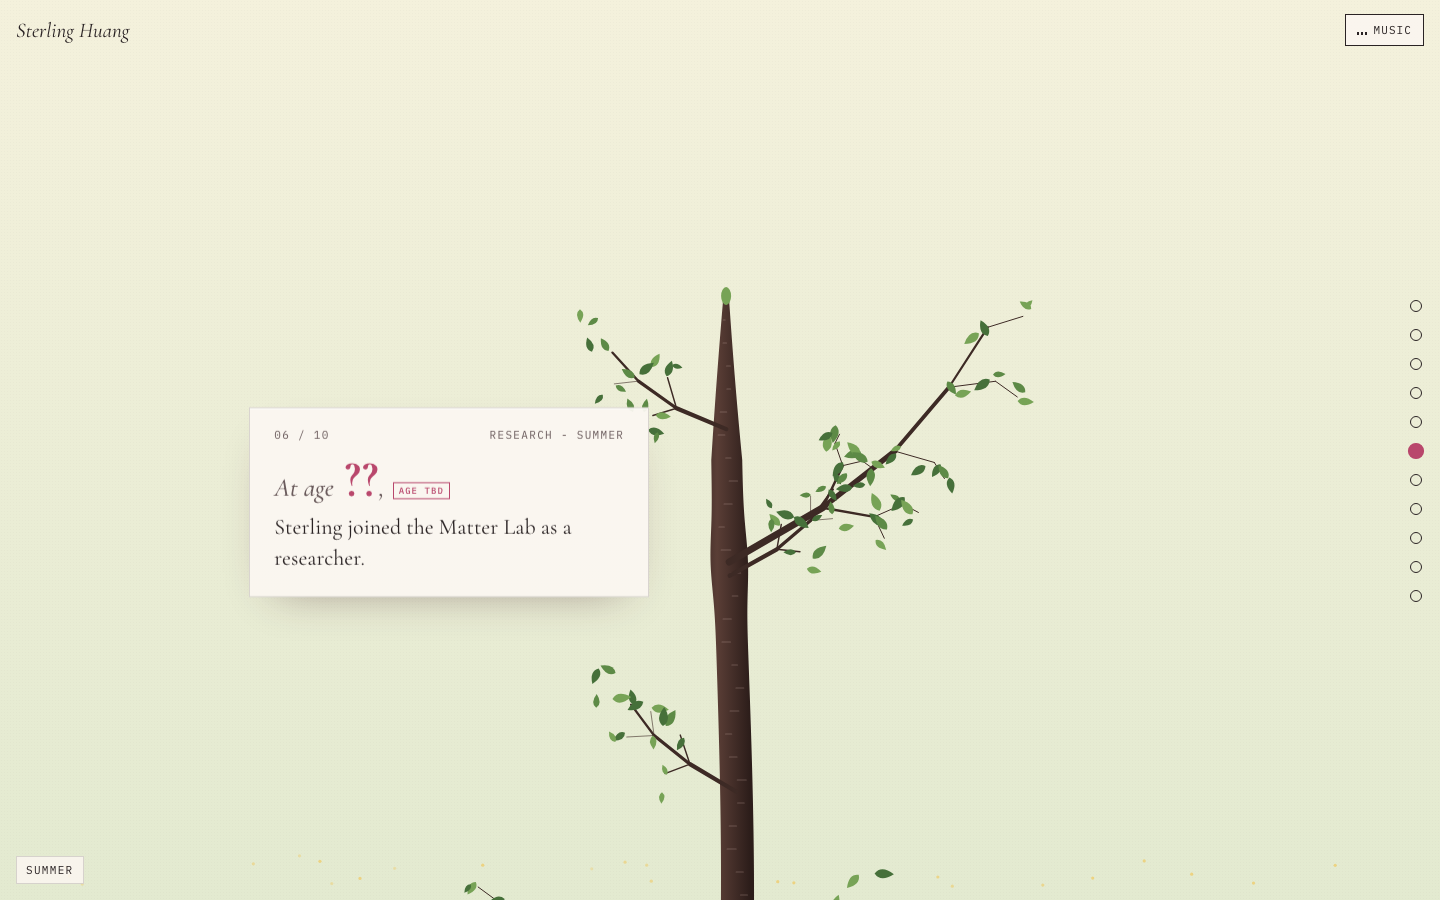
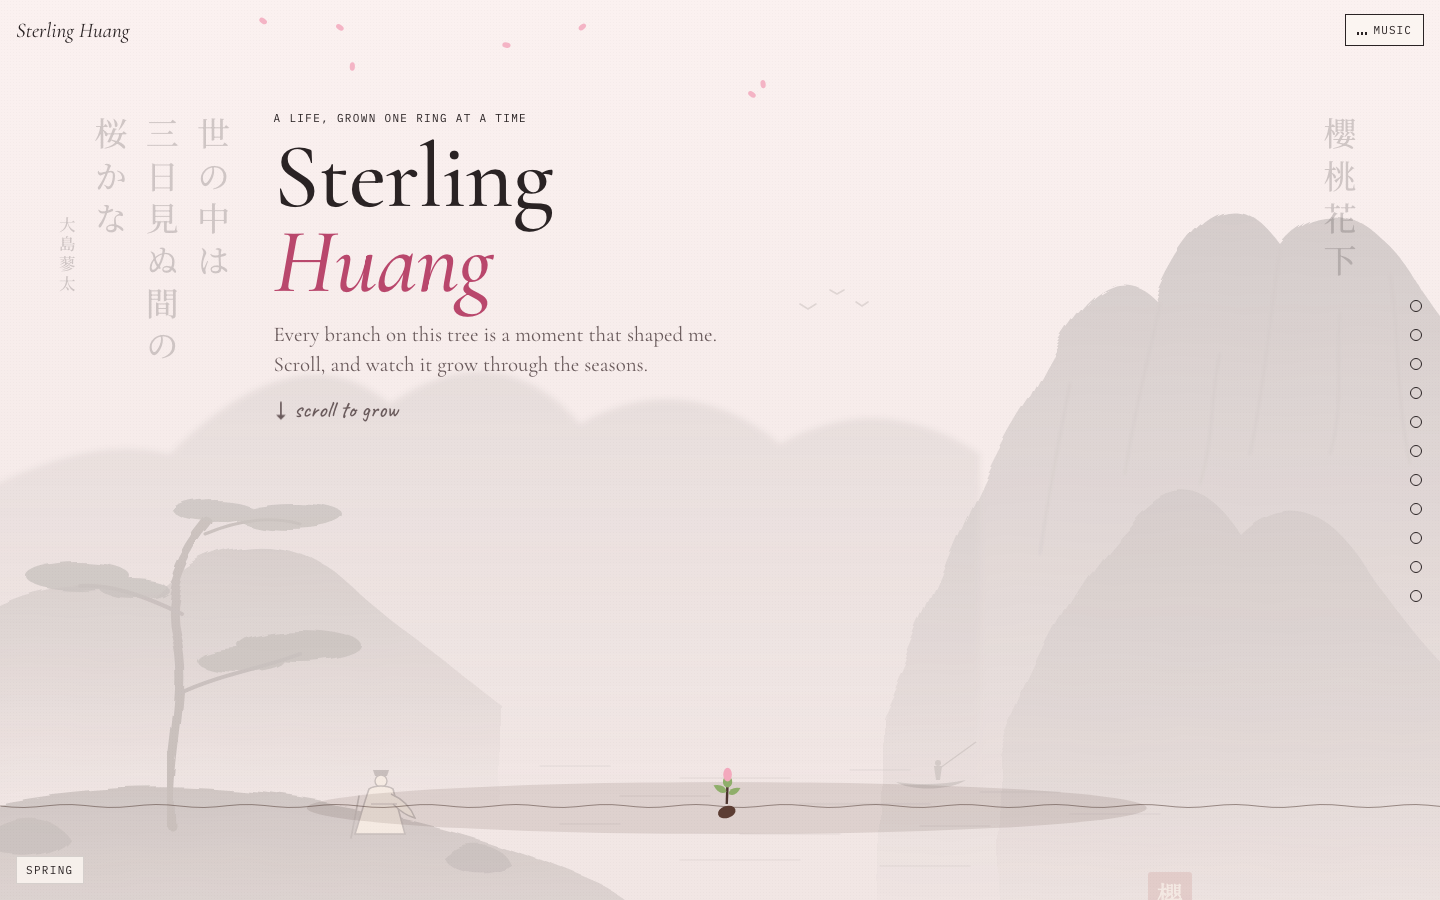
feat: bud-to-bloom growth, single season cycle and ink-wash backdrop
- tree starts as a sprouting bud and thickens as it grows; branches mature with each highlight
- seasons run once in long blocks (spring buds, summer, autumn, winter) before full bloom
- faded original shanshui landscape with a scholar on the riverbank, parallax on scroll
- vertical verses: Oshima Ryota's haiku and the title of the 櫻桃花下 poem (text pending)

diff --git a/js/tree.js b/js/tree.js
@@ -6,7 +6,9 @@
 (() => {
   const reduceMotion = matchMedia("(prefers-reduced-motion: reduce)").matches;
   const MOBILE_BP = 760;
-  const GROUND = 96, SEED_H = 760, STEP = 600, CROWN_GAP = 320;
+  const GROUND = 96, SEED_H = 760, STEP = 700, CROWN_GAP = 320;
+  /* The tree matures as it grows: branches and trunk start at these fractions of full size. */
+  const YOUNG_BRANCH = 0.5, YOUNG_TWIG = 0.3, YOUNG_TRUNK = 0.3;
   const SEASON_FADE_MS = 1400, CANOPY_COUNT = 760, GROWTH_RATE = 3.2;
   /* At the end of the page the crown sits at CROWN_SCREEN of the viewport height and the motto at FINALE_SCREEN. */
   const CROWN_SCREEN = 0.8, FINALE_SCREEN = 0.42;
@@ -20,8 +22,10 @@
 
   /* ---------- world layout ---------- */
   const marks = SITE.highlights.map((h, i) => ({
-    ...h, i, wy: SEED_H + i * STEP, side: i % 2 ? -1 : 1, season: SEASON_CYCLE[i % SEASON_CYCLE.length]
+    ...h, i, wy: SEED_H + i * STEP, side: i % 2 ? -1 : 1,
+    season: SEASON_CYCLE[Math.floor(i * SEASON_CYCLE.length / SITE.highlights.length)] // one cycle, long seasons
   }));
+  const maturity = i => marks.length > 1 ? i / (marks.length - 1) : 1;
   const TOP = marks[marks.length - 1].wy + CROWN_GAP;
   let WORLD_H = TOP + 1000; // recomputed from the viewport height in resize()
   const seasonAt = wy => wy >= TOP - 80 ? "bloom"
@@ -46,14 +50,15 @@
       .flatMap(s => [0, 1].map(() => ({ x: s.x2 + (r() - 0.5) * 0.06, y: s.y2 + (r() - 0.5) * 0.06, a: r() * 6.28, s: 0.7 + r() * 0.6, c: Math.floor(r() * 3), d: s.d1 })));
     return { segs, buds };
   }
-  const branches = marks.map((m, i) => ({ ...buildBranch(-m.side, 1000 + i * 97), wy: m.wy, scale: 1 }));
+  const branches = marks.map((m, i) => ({ ...buildBranch(-m.side, 1000 + i * 97), wy: m.wy,
+    scale: YOUNG_BRANCH + (1 - YOUNG_BRANCH) * maturity(i) }));
   const twigs = [];
   { const r = mulberry32(42);
-    for (let wy = SEED_H + 160; wy < TOP - 120; wy += 120 + r() * 130) {
-      const b = buildBranch(r() < 0.5 ? -1 : 1, Math.floor(r() * 1e6)), k = 0.5;
-      twigs.push({ wy, scale: k,
-        segs: b.segs.filter(s => s.depth <= 2).map(s => ({ ...s, x1: s.x1 * k, y1: s.y1 * k, x2: s.x2 * k, y2: s.y2 * k, d0: s.d0 * k, d1: s.d1 * k, w: s.w * 0.6 })),
-        buds: b.buds.filter((_, j) => j % 2 === 0).map(l => ({ ...l, x: l.x * k, y: l.y * k, d: l.d * k })) });
+    for (let wy = 260; wy < TOP - 120; wy += 120 + r() * 130) {
+      const b = buildBranch(r() < 0.5 ? -1 : 1, Math.floor(r() * 1e6));
+      twigs.push({ wy, scale: YOUNG_TWIG + (0.55 - YOUNG_TWIG) * Math.min(1, wy / TOP),
+        segs: b.segs.filter(s => s.depth <= 2).map(s => ({ ...s, w: s.w * 0.6 })),
+        buds: b.buds.filter((_, j) => j % 2 === 0) });
     } }
   const canopy = [];
   { const r = mulberry32(2024);
@@ -101,13 +106,16 @@
   let W = 0, H = 0, S = 200, trunkCX = 0, TW = 1, mobile = false;
   const camY = () => scrollY;
   const sy = wy => H - GROUND - wy + camY();
-  const tipY = () => reduceMotion ? Infinity : camY() + H * 0.56 - Math.max(0, 320 - camY());
+  /* The growing tip starts at the ground (a bud) and catches up with the reading line as you scroll. */
+  const BUD_START = 22; // px of shoot visible before any scrolling
+  const tipY = () => reduceMotion ? Infinity : Math.max(BUD_START, camY() + H * 0.56 - Math.max(0, H * 0.56 - camY()));
   const growth = (wy, scale) => Math.max(0, (tipY() - wy) * GROWTH_RATE / (S * scale));
   const trunkX = wy => trunkCX + Math.sin(wy * 0.0021) * 14 + Math.sin(wy * 0.0057 + 1.3) * 7;
   function trunkW(wy) {
     let w = 50 - 32 * Math.min(1, wy / TOP);
     marks.forEach(m => { const d = (wy - m.wy) / 40; w += 6 * Math.exp(-d * d); });
-    w *= TW; return Math.max(5, wy < 40 ? w * (0.5 + wy / 80) : w);
+    const age = YOUNG_TRUNK + (1 - YOUNG_TRUNK) * Math.min(1, Math.max(0, tipY()) / TOP); // trunk thickens as the tree grows
+    w *= TW * age; return Math.max(3, wy < 40 ? w * (0.5 + wy / 80) : w);
   }
 
   function resize() {
@@ -146,8 +154,15 @@
     ctx.moveTo(0, 0); ctx.quadraticCurveTo(7, -5, 0, -15); ctx.quadraticCurveTo(-7, -5, 0, 0); ctx.fill(); ctx.restore();
   }
   function drawSnowTuft(x, y, s, col) { ctx.fillStyle = col; ctx.beginPath(); ctx.ellipse(x, y - 1, 4.5 * s, 2.2 * s, 0, 0, 6.283); ctx.fill(); }
+  /* A sakura bud: green calyx with a pink tip. */
+  function drawFlowerBud(x, y, a, s, col) {
+    ctx.save(); ctx.translate(x, y); ctx.rotate(a); ctx.scale(s, s);
+    ctx.fillStyle = SEASONS.spring.colors[2]; ctx.beginPath(); ctx.ellipse(0, 1, 2.6, 3.2, 0, 0, 6.283); ctx.fill();
+    ctx.fillStyle = col; ctx.beginPath(); ctx.ellipse(0, -3, 2.4, 3.8, 0, 0, 6.283); ctx.fill(); ctx.restore();
+  }
   function drawBud(x, y, a, s, c, seasonKey) {
     const se = SEASONS[seasonKey], col = se.colors[c], k = mobile ? 0.8 : 1;
+    if (se.foliage === "bud") return c === 0 ? drawBlossomCluster(x, y, a, s * k * 0.55, col) : drawFlowerBud(x, y, a, s * k, col);
     if (se.foliage === "blossom") drawBlossomCluster(x, y, a, s * k, col);
     else if (se.foliage === "leaf") drawLeaf(x, y, a, s * k, col);
     else drawSnowTuft(x, y, s * k, col);
@@ -161,7 +176,7 @@
       for (let x = 0; x <= W; x += 12) ctx.lineTo(x, sy(0) + 2 + Math.sin(x * 0.07) * 1.5); ctx.stroke();
       ctx.fillStyle = "#5c3d33"; ctx.beginPath(); ctx.ellipse(trunkX(0), sy(0) + 8, 9, 6, -0.3, 0, 6.283); ctx.fill();
     }
-    if (hi <= lo) return;
+    if (hi <= lo) { if (sy(tip) < H + 20) drawTipBud(tip); return; }
     const halfW = wy => trunkW(wy) * Math.min(1, (tip - wy) / 200 + 0.2) / 2;
     const L = [], R = [];
     for (let wy = lo; wy <= hi; wy += 5) { const x = trunkX(wy), w = halfW(wy); L.push([x - w, sy(wy)]); R.push([x + w, sy(wy)]); }
@@ -175,24 +190,31 @@
       const w = halfW(wy), x = trunkX(wy), off = Math.sin(wy * 1.7) * w * 0.4, len = w * (0.3 + 0.25 * Math.abs(Math.sin(wy)));
       ctx.beginPath(); ctx.moveTo(x + off - len / 2, sy(wy)); ctx.lineTo(x + off + len / 2, sy(wy)); ctx.stroke();
     }
-    if (tip < TOP + 100 && sy(tip) > -20 && sy(tip) < H + 20) {
-      ctx.fillStyle = SEASONS[seasonAt(tip)].colors[1]; ctx.beginPath(); ctx.ellipse(trunkX(tip), sy(tip) - 4, 5, 9, 0, 0, 6.283); ctx.fill();
+    if (tip < TOP + 100 && sy(tip) > -20 && sy(tip) < H + 20) drawTipBud(tip);
+  }
+  /* The leading bud. While the tree is still a seedling it also carries two first leaves. */
+  function drawTipBud(tip) {
+    const x = trunkX(tip), y = sy(tip), seedling = Math.max(0, 1 - tip / 160);
+    if (seedling > 0) {
+      drawLeaf(x - 1, y + 10, -1.1, 0.9 * seedling + 0.2, SEASONS.spring.colors[2]);
+      drawLeaf(x + 1, y + 12, 1.1, 0.8 * seedling + 0.2, SEASONS.spring.colors[2]);
     }
+    drawFlowerBud(x, y - 2, 0, 1.8, SEASONS[seasonAt(tip)].foliage === "leaf" ? SEASONS.spring.colors[2] : SEASONS.spring.colors[0]);
   }
   function drawWood(b) {
     const g = growth(b.wy, b.scale); b.g = g; if (g <= 0) return;
-    const bx = trunkX(b.wy), base = sy(b.wy), reach = S * 2;
+    const bx = trunkX(b.wy), base = sy(b.wy), u = S * b.scale, reach = u * 2;
     if (base < -reach || base > H + reach) { b.g = -1; return; }
     ctx.strokeStyle = "#3d2a25"; ctx.lineCap = "round";
     b.segs.forEach(s => { if (s.d0 >= g) return; const f = Math.min(1, (g - s.d0) / (s.d1 - s.d0));
-      ctx.lineWidth = s.w * (mobile ? 0.8 : 1); ctx.beginPath(); ctx.moveTo(bx + s.x1 * S, base - s.y1 * S);
-      ctx.lineTo(bx + (s.x1 + (s.x2 - s.x1) * f) * S, base - (s.y1 + (s.y2 - s.y1) * f) * S); ctx.stroke(); });
+      ctx.lineWidth = s.w * (mobile ? 0.8 : 1) * (0.5 + 0.5 * b.scale); ctx.beginPath(); ctx.moveTo(bx + s.x1 * u, base - s.y1 * u);
+      ctx.lineTo(bx + (s.x1 + (s.x2 - s.x1) * f) * u, base - (s.y1 + (s.y2 - s.y1) * f) * u); ctx.stroke(); });
   }
   function drawFoliage(b, seasonKey, t) {
-    if (!(b.g > 0)) return; const bx = trunkX(b.wy), base = sy(b.wy);
+    if (!(b.g > 0)) return; const bx = trunkX(b.wy), base = sy(b.wy), u = S * b.scale;
     b.buds.forEach(l => { if (l.d > b.g) return; const k = Math.min(1, (b.g - l.d) * 6);
       const sway = reduceMotion ? 0 : Math.sin(t * 0.0012 + l.a * 3) * 0.12;
-      drawBud(bx + l.x * S, base - l.y * S, l.a + sway, l.s * k, l.c, seasonKey); });
+      drawBud(bx + l.x * u, base - l.y * u, l.a + sway, l.s * k, l.c, seasonKey); });
   }
   function drawCanopy(seasonKey) {
     const tip = tipY(); if (tip <= TOP) return;

diff --git a/styles.css b/styles.css
@@ -22,13 +22,26 @@ a:focus-visible, button:focus-visible { outline: 2px dashed var(--ink); outline-
 #sky { position: fixed; inset: 0; z-index: 0; background: linear-gradient(180deg, var(--sky-top), var(--sky-bot)); }
 #sky::after { content: ""; position: absolute; inset: 0; opacity: .35; pointer-events: none;
   background-image: radial-gradient(rgba(60, 40, 40, .07) 1px, transparent 1px); background-size: 3px 3px; }
+/* faded ink painting + vertical verses behind the tree */
+#backdrop { position: fixed; inset: 0; z-index: 0; pointer-events: none; overflow: hidden; }
+#ink { position: absolute; left: 0; right: 0; bottom: -6vh; width: 100%; height: 100%; object-fit: cover; object-position: center bottom;
+  opacity: .2; mix-blend-mode: multiply; filter: sepia(.35); will-change: transform; }
+#verses { position: absolute; inset: 0; }
+/* vertical-rl: flex column = block axis, so each line becomes a column read right to left */
+.verse { position: absolute; top: 13vh; writing-mode: vertical-rl; display: flex; flex-direction: column; gap: .55em; white-space: nowrap; color: var(--ink); opacity: .2;
+  font-family: "Noto Serif JP", "Noto Serif TC", "Hiragino Mincho ProN", "Songti TC", serif; font-size: clamp(22px, 2.3vw, 34px); letter-spacing: .28em; line-height: 1; }
+.verse[lang="zh-Hant"] { font-family: "Noto Serif TC", "Songti TC", "Noto Serif JP", serif; }
+.verse .v-title { font-weight: 500; }
+.verse .v-author { font-size: .5em; letter-spacing: .2em; padding-top: 6em; }
+.verse-haiku { left: 4vw; }
+.verse-poem { right: 6vw; }
 canvas#tree, canvas#fx { position: fixed; inset: 0; width: 100%; height: 100%; z-index: 1; pointer-events: none; }
 canvas#fx { z-index: 3; }
 #world { position: fixed; left: 0; top: 0; width: 100%; z-index: 2; will-change: transform; }
 #spacer { position: relative; z-index: -1; }
 
 /* ---------- hero ---------- */
-.hero { position: absolute; left: max(16px, 8vw); transform: translateY(-100%); width: min(560px, calc(100% - 32px)); }
+.hero { position: absolute; left: max(16px, 19vw); /* clears the haiku columns at the left edge */ transform: translateY(-100%); width: min(560px, calc(100% - 32px)); }
 .hero h1 { font-weight: 500; font-size: clamp(48px, 8vw, 92px); line-height: .92; margin: 10px 0 16px; letter-spacing: -.01em; }
 .hero h1 em { color: var(--sakura-deep); }
 .hero p { font-size: 21px; line-height: 1.4; margin: 0 0 16px; max-width: 460px; color: var(--ink-soft); }
@@ -102,6 +115,10 @@ canvas#fx { z-index: 3; }
   .path strong { font-size: 26px; }
   .finale .hand { margin-bottom: 18px; }
   #rail, #season { display: none; }
+  .verse { top: auto; bottom: 12vh; font-size: 20px; opacity: .14; } /* below the hero title on small screens */
+  .verse-haiku { left: 10px; }
+  .verse-poem { right: 10px; }
+  #ink { opacity: .16; }
 }
 @media (prefers-reduced-motion: reduce) {
   *, *::before, *::after { animation: none !important; transition: none !important; }

diff --git a/js/backdrop.js b/js/backdrop.js
@@ -1,0 +1,33 @@
+/* Background layer: the faded ink landscape and the vertical verses from SITE.verses.
+   Loads only the CJK glyphs the verses use (Google Fonts text= subsetting) and drifts gently with scroll. */
+(() => {
+  const PARALLAX_VH = 6; // how far the landscape rises over the whole page, in vh
+  const FONT_URL = "https://fonts.googleapis.com/css2?family=Noto+Serif+JP:wght@500&family=Noto+Serif+TC:wght@500&display=swap&text=";
+  const host = document.getElementById("verses"), art = document.getElementById("ink");
+  if (!host || !art) { console.error("backdrop: #verses or #ink missing"); return; }
+
+  const verses = SITE.verses || [];
+  const glyphs = [...new Set(verses.flatMap(v => [v.title || "", v.author || "", ...v.lines]).join(""))].join("");
+  if (glyphs) {
+    const link = document.createElement("link");
+    link.rel = "stylesheet"; link.href = FONT_URL + encodeURIComponent(glyphs);
+    document.head.appendChild(link);
+  }
+
+  const esc = s => String(s).replace(/[&<>"]/g, c => ({ "&": "&amp;", "<": "&lt;", ">": "&gt;", '"': "&quot;" }[c]));
+  host.innerHTML = verses.map(v => `<div class="verse verse-${esc(v.id)}" lang="${esc(v.lang)}">
+      ${v.title ? `<div class="v-title">${esc(v.title)}</div>` : ""}
+      ${v.lines.map(l => `<div class="v-line">${esc(l)}</div>`).join("")}
+      ${v.author ? `<div class="v-author">${esc(v.author)}</div>` : ""}
+    </div>`).join("");
+
+  if (matchMedia("(prefers-reduced-motion: reduce)").matches) return;
+  let queued = false;
+  const drift = () => {
+    queued = false;
+    const max = Math.max(1, document.documentElement.scrollHeight - innerHeight);
+    art.style.transform = `translateY(${(-PARALLAX_VH * scrollY / max).toFixed(2)}vh)`;
+  };
+  addEventListener("scroll", () => { if (!queued) { queued = true; requestAnimationFrame(drift); } }, { passive: true });
+  drift();
+})();

diff --git a/js/seasons.js b/js/seasons.js
@@ -1,9 +1,11 @@
-/* Season palettes for the sakura tree. "bloom" is the final full-bloom spring at the crown. */
+/* Season palettes for the sakura tree. The story runs through ONE cycle, each season covering a
+   contiguous block of highlights; "bloom" is the final full-bloom spring at the crown.
+   Spring is the young tree's first spring: mostly buds, a few early blossoms. */
 const SEASON_CYCLE = ["spring", "summer", "autumn", "winter"];
 
 const SEASONS = {
-  spring: { label: "Spring", sky: ["#fbf1f0", "#f1e6e4"], foliage: "blossom",
-            colors: ["#f6c1cf", "#f3a9bd", "#fbd9e1"], fx: "petals" },
+  spring: { label: "Spring", sky: ["#fbf1f0", "#f1e6e4"], foliage: "bud",
+            colors: ["#f3a9bd", "#e98fa9", "#8fae6a"], fx: "petals" },
   summer: { label: "Summer", sky: ["#f4f1dc", "#e3ead0"], foliage: "leaf",
             colors: ["#5d8a46", "#77a356", "#46703a"], fx: "motes" },
   autumn: { label: "Autumn", sky: ["#f7ead9", "#efd9c0"], foliage: "leaf",

diff --git a/js/content.js b/js/content.js
@@ -28,6 +28,13 @@ const SITE = {
     note: "The UTS motto, and still the plan."
   },
 
+  /* Faded verses drawn vertically behind the tree. Lines are columns, read right to left. */
+  verses: [
+    { id: "haiku", lang: "ja", lines: ["世の中は", "三日見ぬ間の", "桜かな"], author: "大島蓼太" },
+    /* TODO(Sterling): paste the poem's lines and author; until then only the title shows. */
+    { id: "poem", lang: "zh-Hant", title: "櫻桃花下", lines: [], author: "" }
+  ],
+
   /* The three branches the finale leads to. Each gets its own theme later. */
   paths: [
     { href: "projects.html", title: "Projects", blurb: "Maplecrown, BikeTO, antennas and science fair builds." },

diff --git a/index.html b/index.html
@@ -13,6 +13,10 @@
 <body>
 <!-- Content lives in js/content.js. The tree, seasons and finale are generated by js/tree.js. -->
 <div id="sky"></div>
+<div id="backdrop" aria-hidden="true">
+  <img id="ink" src="assets/ink-landscape.svg" alt="">
+  <div id="verses"></div>
+</div>
 <canvas id="tree" aria-hidden="true"></canvas>
 <main id="world"></main>
 <canvas id="fx" aria-hidden="true"></canvas>
@@ -28,6 +32,7 @@
 <script src="js/content.js"></script>
 <script src="js/seasons.js"></script>
 <script src="js/music.js"></script>
+<script src="js/backdrop.js"></script>
 <script src="js/tree.js"></script>
 </body>
 </html>
